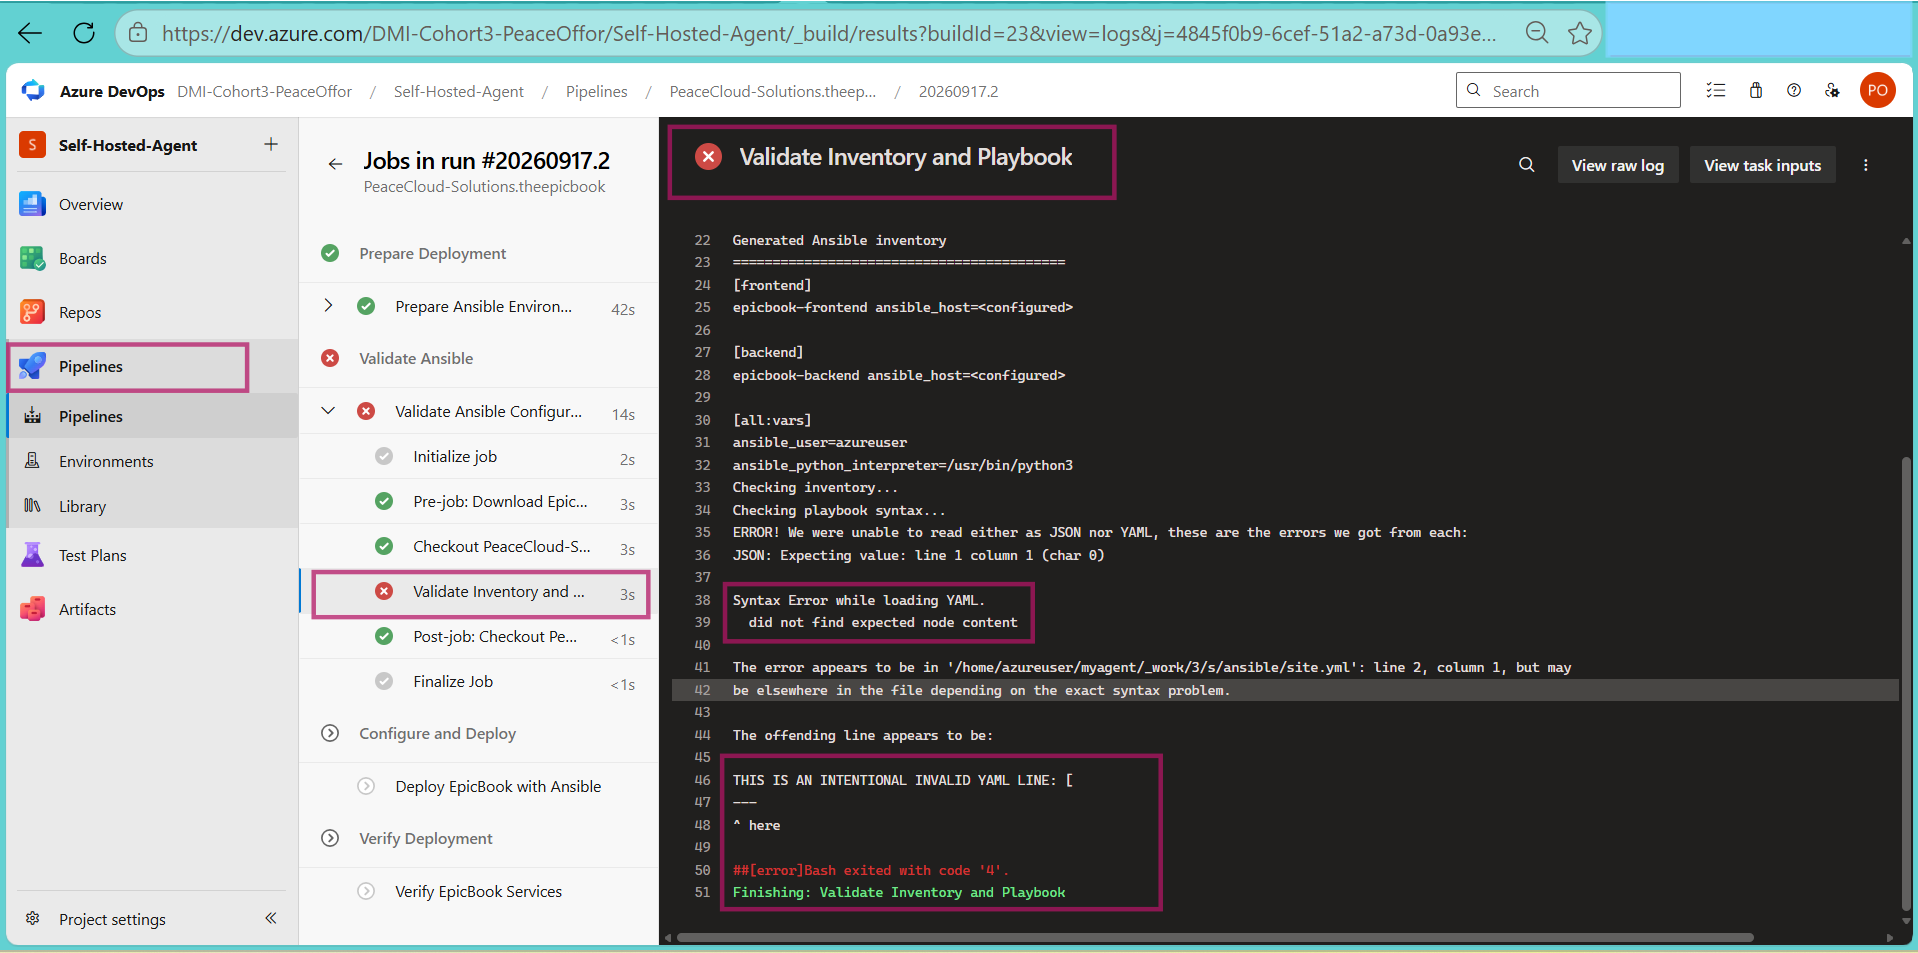
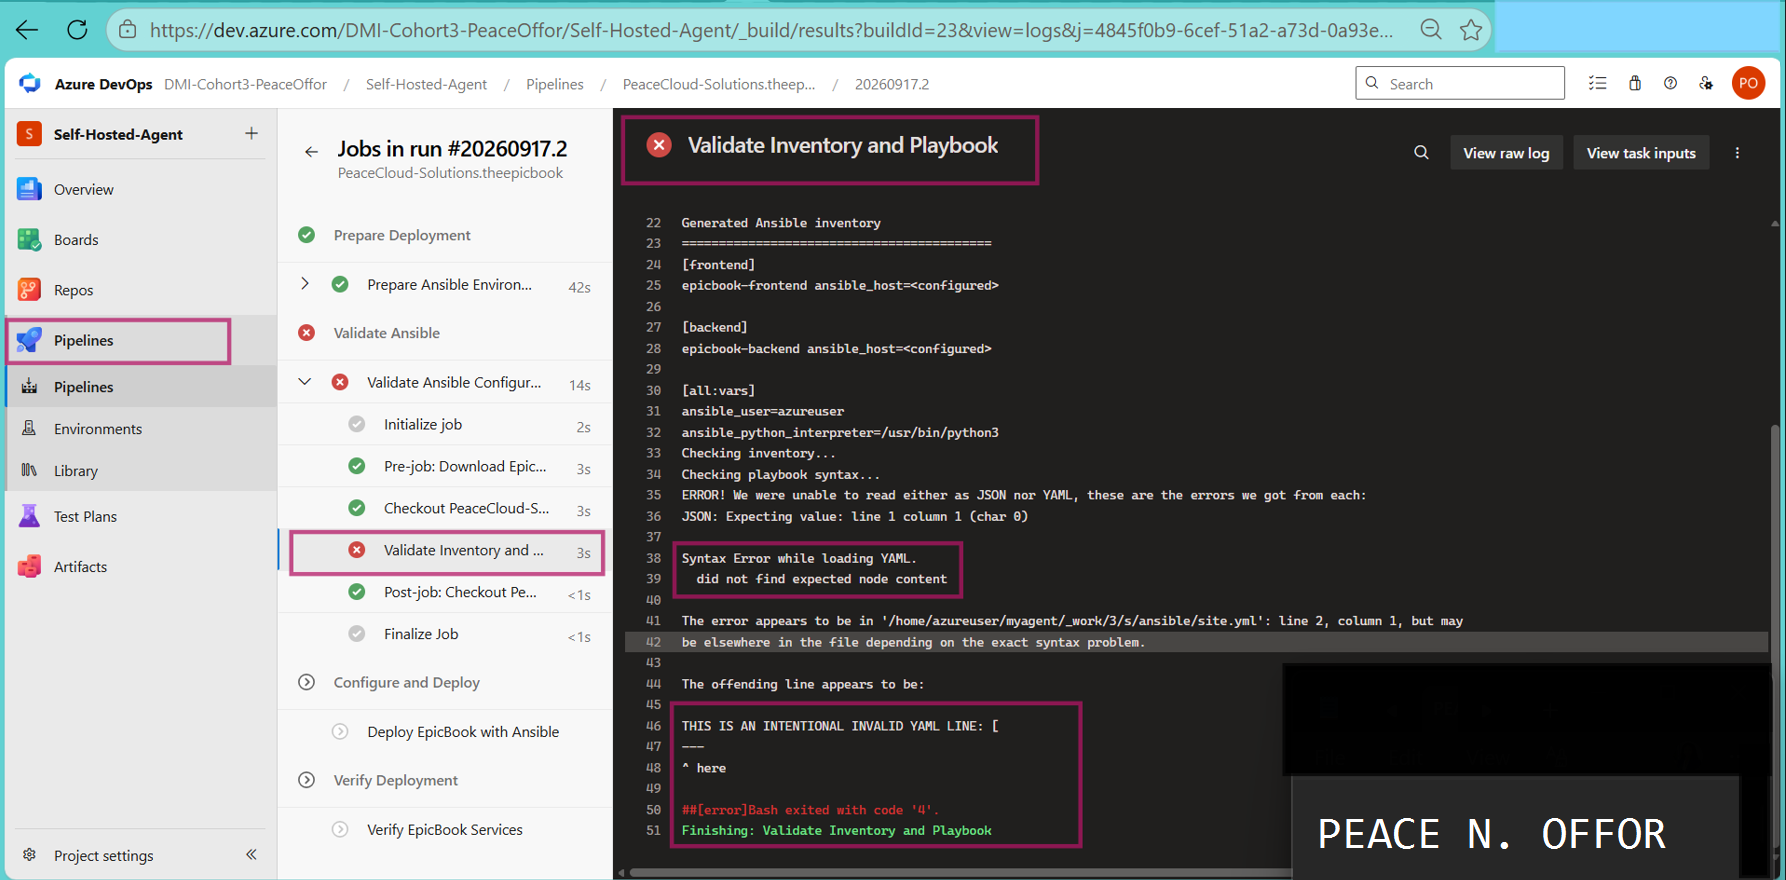
docs: complete Week 10 Azure DevOps assignments

diff --git a/README.md b/README.md
@@ -95,10 +95,10 @@ This is not a course. It is an internship-style program — real deployments, re
  [![Week 08 – Terraform](./badges/week-08.svg)](./week-08-terraform/)
 
  Week 09 → Ansible 
-[![Week 09 – Ansible](./badges/week-09.svg)](./week-09-ansible/)
+ [![Week 09 – Ansible](./badges/week-09.svg)](./week-09-ansible/)
 
-<!-- Week 10 → Azure DevOps CI/CD -->
-<!-- [![Week 10 – CI/CD](./badges/week-10.svg)](./week-10-azure-devops/) -->
+ Week 10 → Azure DevOps CI/CD 
+ [![Week 10 – CI/CD](./badges/week-10.svg)](./week-10-azure-devops/) 
 
 <!-- Week 11 → Docker -->
 <!-- [![Week 11 – Docker](./badges/week-11.svg)](./week-11-docker/) -->
@@ -138,9 +138,9 @@ This is not a course. It is an internship-style program — real deployments, re
 | 05 | DevOps Lifecycle & Agile | ✅ Completed | ✅ Solved | [Linkedin post week 05] (https://www.linkedin.com/posts/peace-offor-aa736a147_dmibypravinmishra-devops-agile-ugcPost-7491298391059152896-C9Bc/?utm_source=share&utm_medium=member_desktop&rcm=ACoAACN4g58BM2OoiPOU_M6YmR_9gplw4hlL_RQ) | [Blog post week 05] (https://medium.com/@poffor762/from-sprint-planning-to-deployment-delivering-a-website-increment-through-a-5-day-agile-sprint-70d1d422f40e?sharedUserId=poffor762) |
 | 06 | AWS Cloud | ✅ Completed  | ✅ Solved | [Linkedin post week 06] (https://www.linkedin.com/posts/peace-offor-aa736a147_aws-devops-cloudcomputing-activity-7494069858188414976-3pu3?utm_source=share&utm_medium=member_desktop&rcm=ACoAACN4g58BM2OoiPOU_M6YmR_9gplw4hlL_RQ) | [Blog post week 06] (https://medium.com @poffor762/week-06-building-on-aws-from-static-hosting-to-high-availability-8907f781a3f9?sharedUserId=poffor762) |
 | 07 | Azure Cloud | ✅ Completed  | ✅ Solved | [Linkedin post week 07] (https://www.linkedin.com/posts/peace-offor-aa736a147_azure-devops-cloudcomputing-activity-7499018061954318336-L9Ac?utm_source=share&utm_medium=member_desktop&rcm=ACoAACN4g58BM2OoiPOU_M6YmR_9gplw4hlL_RQ) | [Blog post week 07] (https://medium.com/@poffor762/technical-journey-building-and-troubleshooting-a-three-tier-book-review-application-on-microsoft-d237f4c364b0?sharedUserId=poffor762) |
-| 08 | Terraform | ✅ Completed | ✅ Completed | [Linkedin post week 08] (https://www.linkedin.com/posts/peace-offor-aa736a147_terraform-aws-devops-activity-7501644790724493312-W0sI?utm_source=share&utm_medium=member_desktop&rcm=ACoAACN4g58BM2OoiPOU_M6YmR_9gplw4hlL_RQ) | [Blog post week 08] (https://medium.com/@poffor762/from-terraform-basics-to-a-modular-aws-deployment-my-week-08-epicbook-project-d565fa09d971) |
-| 09 | Ansible | 🔄 In Progress | 🔄 In Progress | [Linkedin post week 09] (https://www.linkedin.com/posts/peace-offor-aa736a147_devops-ansible-terraform-activity-7504138582903877633-PAX3?utm_source=share&utm_medium=member_desktop&rcm=ACoAACN4g58BM2OoiPOU_M6YmR_9gplw4hlL_RQ) | [Blog post week 09] (https://medium.com/@poffor762/from-manual-server-management-to-ansible-ad-hoc-automation-fe10940e7d53) |
-| 10 | Azure DevOps (CI/CD) | ⬜ Not Started | ⏳ Pending | — | — |
+| 08 | Terraform | ✅ Completed | ✅ Solved | [Linkedin post week 08] (https://www.linkedin.com/posts/peace-offor-aa736a147_terraform-aws-devops-activity-7501644790724493312-W0sI?utm_source=share&utm_medium=member_desktop&rcm=ACoAACN4g58BM2OoiPOU_M6YmR_9gplw4hlL_RQ) | [Blog post week 08] (https://medium.com/@poffor762/from-terraform-basics-to-a-modular-aws-deployment-my-week-08-epicbook-project-d565fa09d971) |
+| 09 | Ansible | ✅ Completed | ✅ Solved | [Linkedin post week 09] (https://www.linkedin.com/posts/peace-offor-aa736a147_devops-ansible-terraform-activity-7504138582903877633-PAX3?utm_source=share&utm_medium=member_desktop&rcm=ACoAACN4g58BM2OoiPOU_M6YmR_9gplw4hlL_RQ) | [Blog post week 09] (https://medium.com/@poffor762/from-manual-server-management-to-ansible-ad-hoc-automation-fe10940e7d53) |
+| 10 | Azure DevOps (CI/CD) | ✅ Completed | ✅ Solved | [Linkedin post week 10] (https://www.linkedin.com/posts/peace-offor-aa736a147_devops-azuredevops-devopsintern-activity-7505771461752811520-9vMj?utm_source=share&utm_medium=member_desktop&rcm=ACoAACN4g58BM2OoiPOU_M6YmR_9gplw4hlL_RQ) | [Blog post week 10] (https://medium.com/@poffor762/automating-static-website-deployment-to-aws-ec2-with-azure-devops-ci-cd-c4d393a8cd35?sharedUserId=poffor762) |
 | 11 | Docker | ⬜ Not Started | ⏳ Pending | — | — |
 | 12 | Kubernetes | ⬜ Not Started | ⏳ Pending | — | — |
 | 13 | Final Project | ⬜ Not Started | ⏳ Pending | — | — |
@@ -207,13 +207,3 @@ Example output:
 `Portfolio v1.0 — Deployed on 06 Aug 2026 — By Peace Offor`
 
 ---
-
-
-mini-finance-azuredevops-key.pem
-102.88.109.9
-102.89.83.204  recent ip
-
-instance_id = "i-0deee6872f558506b"
-public_dns = "ec2-16-16-194-81.eu-north-1.compute.amazonaws.com"
-public_ip = "16.16.194.81"
-website_url = "http://16.16.194.81"

diff --git a/week-10-azure-devops/assignment-04-automate-epicbook-deployment-with-dual-pipelines.md b/week-10-azure-devops/assignment-04-automate-epicbook-deployment-with-dual-pipelines.md
@@ -226,11 +226,11 @@ Add a screenshot of your LinkedIn post showing:
 * Post text
 * At least one image or link
 
-![LinkedIn Post](<screenshots/week 10-assignment 04-screenshot 6.png>).
+![Linkedn Post](<screenshots/week 10-assignment 04-screenshot 6.png>).
 
 ## LinkedIn Post URL
 
-[[LinkedIn post URL here](https://www.linkedin.com/posts/peace-offor-aa736a147_azuredevops-microsoftazure-devops-activity-7506161232702386177-weWs?utm_source=share&utm_medium=member_desktop&rcm=ACoAACN4g58BM2OoiPOU_M6YmR_9gplw4hlL_RQ).]
+[[LinkedIn post URL](https://lnkd.in/p/eqY3FjGi).]
 
 Your post must include:
 

diff --git a/week-10-azure-devops/assignment-05-ai-assisted-azure-devops-dual-pipeline-failure-triage.md b/week-10-azure-devops/assignment-05-ai-assisted-azure-devops-dual-pipeline-failure-triage.md
@@ -10,7 +10,7 @@ Part of the DevOps Micro Internship (DMI) — Agentic AI Track
 
 **GitHub Repository or Fork URL:** [(https://github.com/PeaceCloud-Solutions/devops-micro-internship-pravinmishra)]
 
-**Public LinkedIn Post URL:** [Paste your LinkedIn post URL]
+**Public LinkedIn Post URL:** [[LinkedIn post URL](https://lnkd.in/p/emc3Cysm)]
 
 ---
 
@@ -330,7 +330,7 @@ Recovery `/pipeline-triage` output showing Overall Status `HEALTHY`, exit code `
 
 ## LinkedIn Post URL
 
-[Paste your public LinkedIn post URL here.]
+[[LinkedIn Post URL](https://lnkd.in/p/emc3Cysm).]
 
 ## Evidence
 

diff --git a/week-10-azure-devops/assignment-03-automate-react-app-deployment-using-azure-devops-cicd.md b/week-10-azure-devops/assignment-03-automate-react-app-deployment-using-azure-devops-cicd.md
@@ -183,7 +183,7 @@ Add a screenshot of your LinkedIn post showing:
 * Post text
 * At least one image or link
 
-![Task 5](<screenshots/week 10-assignment 03-screenshot 4.png>).
+![Task 5](<screenshots/week 10-assignment 03-screenshot 6.png>).
 
 ## LinkedIn Post URL
 

diff --git a/week-10-azure-devops/assignment-02-deploy-a-static-website-to-aws-ec2-using-an-azure-devops-cicd-pipeline.md b/week-10-azure-devops/assignment-02-deploy-a-static-website-to-aws-ec2-using-an-azure-devops-cicd-pipeline.md
@@ -142,7 +142,7 @@ Add a browser screenshot showing:
 
 ## Final Website URL
 
-`http://<target-vm-public-ip>`
+`http://http://16.16.194.81`
 
 Replace the placeholder with your actual website URL:
 
